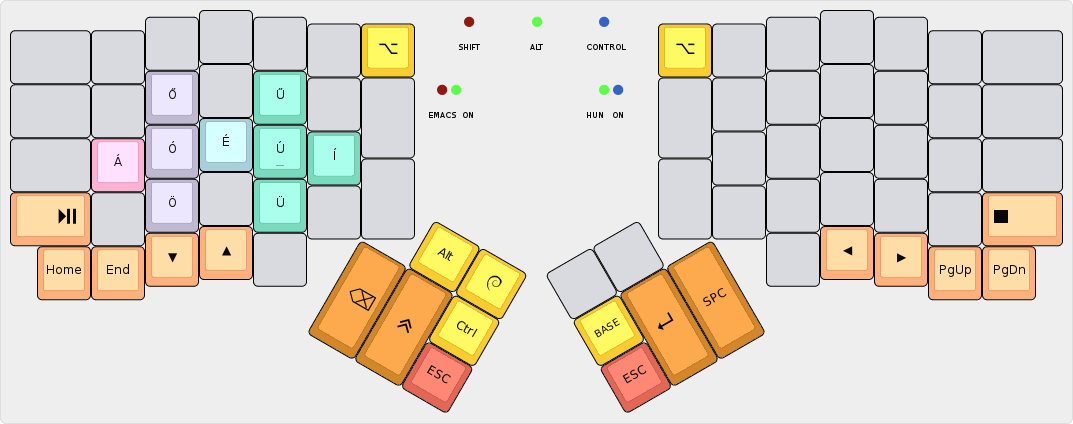
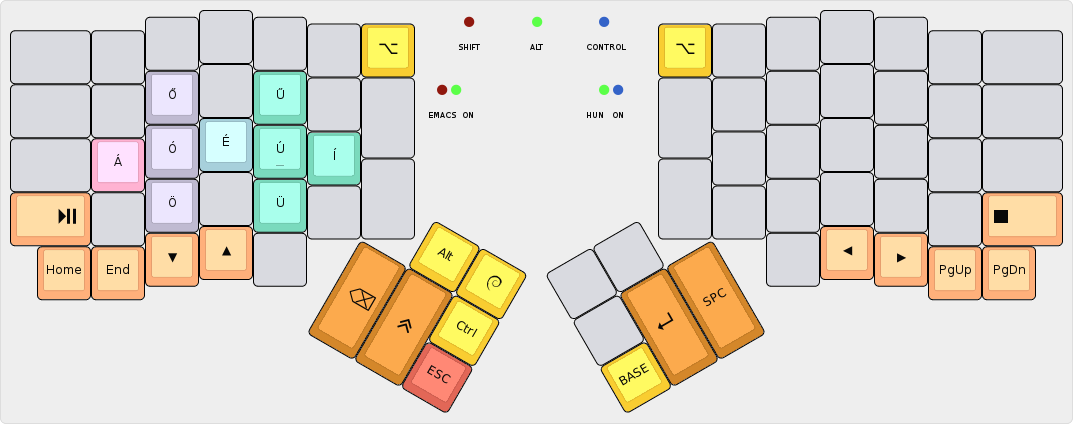
BASE: Move the HUN key to a better position
Move the `HUN` key to where `ESC` used to be, on the right side. It is easier to
reach there, and the `ESC` key was almost completely unused on the right side,
anyway.

Changed region(s): [[0.5228, 0.7052, 0.6459, 0.9811]]

diff --git a/keymap.c b/keymap.c
@@ -130,9 +130,9 @@ const uint16_t PROGMEM keymaps[][MATRIX_ROWS][MATRIX_COLS] = {
  *                                         ,-------------.           ,-------------.
  *                                         | LAlt | GUI  |           |EMACS | 1HND |
  *                                  ,------|------|------|           |------+------+------.
- *                                  |      |      | Ctrl |           | HUN  |      |      |
+ *                                  |      |      | Ctrl |           |      |      |      |
  *                                  |Backsp|LShift|------|           |------| Enter| Space|
- *                                  |      |      | ESC  |           | ESC  |      |      |
+ *                                  |      |      | ESC  |           | HUN  |      |      |
  *                                  `--------------------'           `--------------------'
  */
 [BASE] = KEYMAP(
@@ -155,8 +155,8 @@ const uint16_t PROGMEM keymaps[][MATRIX_ROWS][MATRIX_COLS] = {
                                                                                 ,KC_MINS,KC_LEFT,KC_RGHT     ,KC_PGUP     ,KC_PGDN
 
                                                                ,OSL(EMACS),M(OH_LEFT)
-                                                               ,F(F_HUN)
-                                                               ,M(A_ESC),KC_ENT ,KC_SPC
+                                                               ,KC_NO
+                                                               ,F(F_HUN),KC_ENT ,KC_SPC
     ),
 
 /* Keymap 1: Application select layer
@@ -222,9 +222,9 @@ const uint16_t PROGMEM keymaps[][MATRIX_ROWS][MATRIX_COLS] = {
  *                                         ,-------------.           ,-------------.
  *                                         |      |      |           |      |      |
  *                                  ,------|------|------|           |------+------+------.
- *                                  |      |      |      |           | BASE |      |      |
- *                                  |      |      |------|           |------|      |      |
  *                                  |      |      |      |           |      |      |      |
+ *                                  |      |      |------|           |------|      |      |
+ *                                  |      |      |      |           | BASE |      |      |
  *                                  `--------------------'           `--------------------'
  */
 
@@ -248,8 +248,8 @@ const uint16_t PROGMEM keymaps[][MATRIX_ROWS][MATRIX_COLS] = {
                                                                                  ,KC_NO   ,KC_TRNS ,KC_TRNS ,KC_TRNS ,KC_TRNS
 
                                                                ,KC_NO   ,KC_NO
-                                                               ,F(F_BSE)
-                                                               ,KC_TRNS ,KC_TRNS  ,KC_TRNS
+                                                               ,KC_NO
+                                                               ,F(F_BSE),KC_TRNS  ,KC_TRNS
     ),
 
 /* Keymap 3: Spacemacs layer
